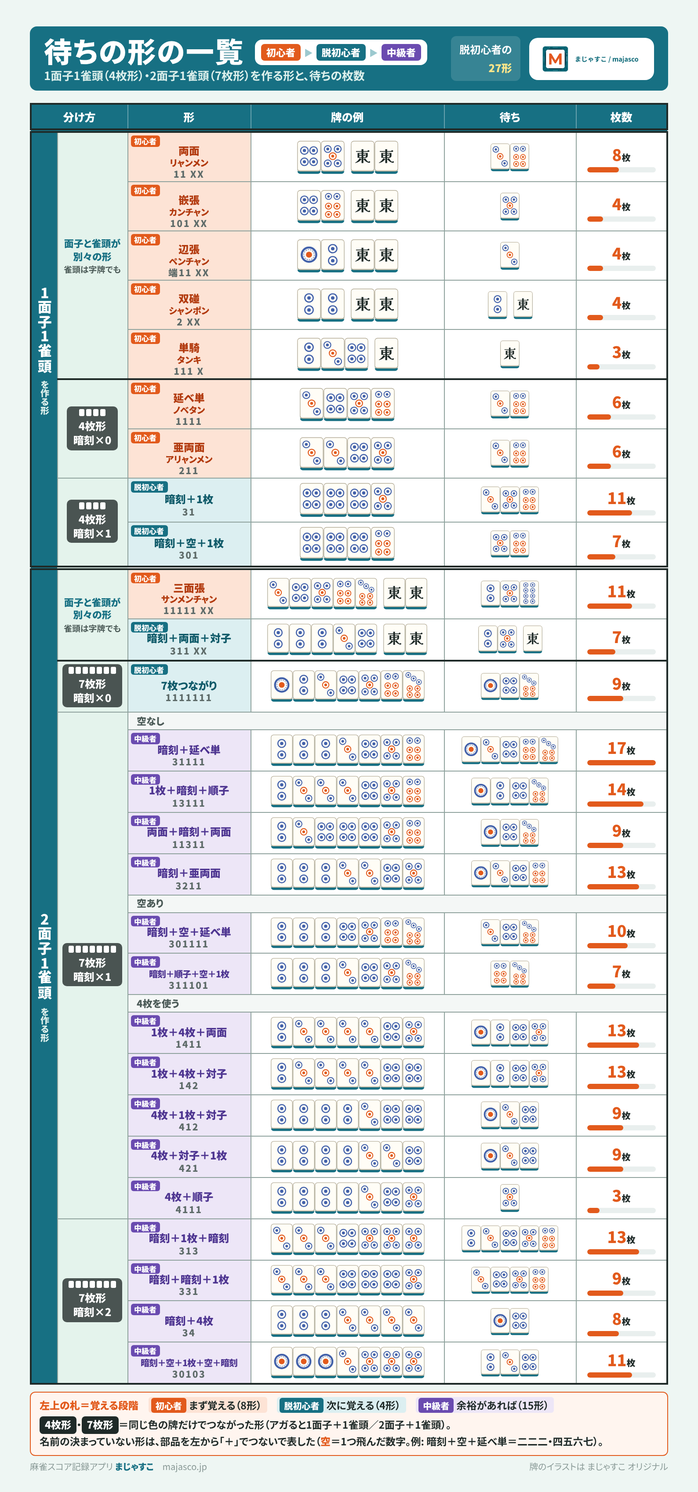
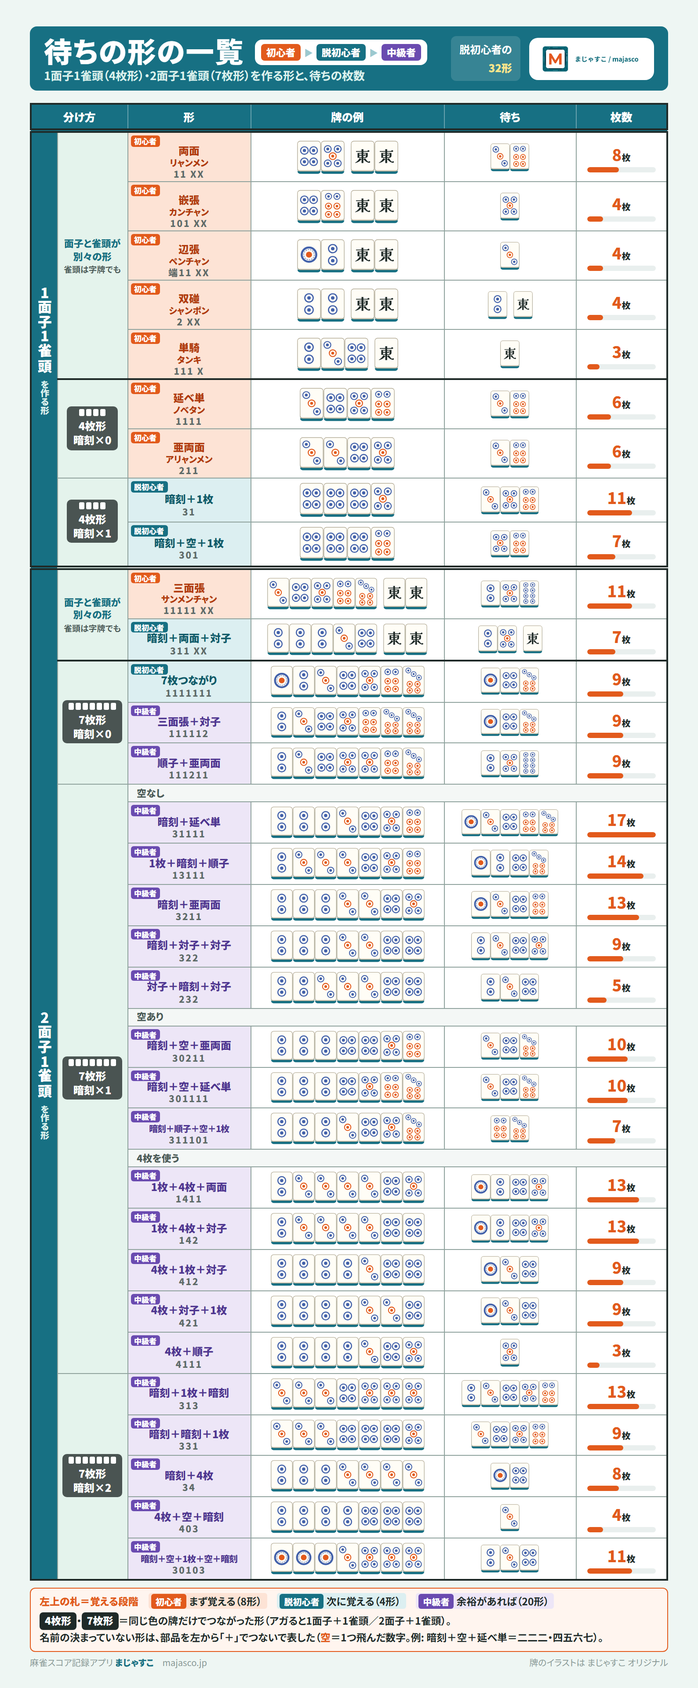
待ちの形一覧を32形に（4・0・3／3・2・2／2・3・2／3・0・2・1・1／1・1・1・1・1・2／1・1・1・2・1・1を追加、両面＋暗刻＋両面を削除）
ユーザーの指示。表の見出しの形の数・段階ごとの数は SECS から数えるようにした（手で書いていた8形・15形が古くなるため）。
記事の本文・alt・画像の高さ・一覧ページの副題・sitemap も合わせた。

Changed region(s): [[0.0309, 0.0, 0.9565, 1.0]]

diff --git a/blog-machi-katachi.html b/blog-machi-katachi.html
@@ -14,8 +14,8 @@ j=d.createElement(s),dl=l!='dataLayer'?'&l='+l:'';j.async=true;j.src=
 <meta name="google-adsense-account" content="ca-pub-9998035509478799">
 <script async src="https://pagead2.googlesyndication.com/pagead/js/adsbygoogle.js?client=ca-pub-9998035509478799"
      crossorigin="anonymous"></script>
-<title>【保存版】麻雀の待ちの形一覧｜両面8枚から最大17枚待ちまで27形を図解 | まじゃすこ</title>
-<meta name="description" content="麻雀の待ちの形を、1面子1雀頭（4枚形）と2面子1雀頭（7枚形）に分けて27形を1枚の表に。初心者が覚える8形から、暗刻を使う中級者の形まで、待ちの牌と枚数を図で解説します。">
+<title>【保存版】麻雀の待ちの形一覧｜両面8枚から最大17枚待ちまで32形を図解 | まじゃすこ</title>
+<meta name="description" content="麻雀の待ちの形を、1面子1雀頭（4枚形）と2面子1雀頭（7枚形）に分けて32形を1枚の表に。初心者が覚える8形から、暗刻を使う中級者の形まで、待ちの牌と枚数を図で解説します。">
 <link rel="canonical" href="https://majasco.jp/blog-machi-katachi.html">
 <link rel="alternate" type="application/rss+xml" title="まじゃすこ お知らせRSS" href="https://majasco.jp/news/feed.xml">
 <link rel="icon" type="image/png" sizes="512x512" href="/assets/favicon.png">
@@ -25,8 +25,8 @@ j=d.createElement(s),dl=l!='dataLayer'?'&l='+l:'';j.async=true;j.src=
 <meta property="og:type" content="article">
 <meta property="og:url" content="https://majasco.jp/blog-machi-katachi.html">
 <meta property="og:site_name" content="まじゃすこ / majasco">
-<meta property="og:title" content="【保存版】麻雀の待ちの形一覧｜両面8枚から最大17枚待ちまで27形を図解">
-<meta property="og:description" content="両面8枚・三面張11枚・暗刻＋延べ単17枚。待ちの形27形を、段階ごとに1枚の表と図で。">
+<meta property="og:title" content="【保存版】麻雀の待ちの形一覧｜両面8枚から最大17枚待ちまで32形を図解">
+<meta property="og:description" content="両面8枚・三面張11枚・暗刻＋延べ単17枚。待ちの形32形を、段階ごとに1枚の表と図で。">
 <meta property="og:locale" content="ja_JP">
 <meta property="og:image" content="https://majasco.jp/assets/og/blog-machi-katachi.png">
 <meta property="og:image:width" content="1200">
@@ -34,8 +34,8 @@ j=d.createElement(s),dl=l!='dataLayer'?'&l='+l:'';j.async=true;j.src=
 <meta name="twitter:card" content="summary_large_image">
 <meta name="twitter:site" content="@majasco_jp">
 <meta name="twitter:image" content="https://majasco.jp/assets/og/blog-machi-katachi.png">
-<meta name="twitter:title" content="【保存版】麻雀の待ちの形一覧｜両面8枚から最大17枚待ちまで27形を図解">
-<meta name="twitter:description" content="両面8枚・三面張11枚・暗刻＋延べ単17枚。待ちの形27形を、段階ごとに1枚の表と図で。">
+<meta name="twitter:title" content="【保存版】麻雀の待ちの形一覧｜両面8枚から最大17枚待ちまで32形を図解">
+<meta name="twitter:description" content="両面8枚・三面張11枚・暗刻＋延べ単17枚。待ちの形32形を、段階ごとに1枚の表と図で。">
 <style>
 * { box-sizing: border-box; margin: 0; padding: 0; }
 body { font-family: -apple-system, BlinkMacSystemFont, 'Segoe UI', 'Hiragino Kaku Gothic ProN', 'Noto Sans JP', sans-serif; background: #fff; color: #222; line-height: 1.95; -webkit-font-smoothing: antialiased; }
@@ -120,7 +120,7 @@ p .yomi, li .yomi { font-size: .78em; }
 .rk-tbl td.n, .rk-tbl th.n { text-align: right; }
 </style>
 <link rel="stylesheet" href="/assets/blog.css">
-<script type="application/ld+json">{"@context": "https://schema.org", "@type": "Article", "headline": "【保存版】麻雀の待ちの形一覧｜両面8枚から最大17枚待ちまで27形を図解", "description": "麻雀の待ちの形を、1面子1雀頭（4枚形）と2面子1雀頭（7枚形）に分けて27形を1枚の表に。初心者が覚える8形から、暗刻を使う中級者の形まで、待ちの牌と枚数を図で解説します。", "image": ["https://majasco.jp/assets/hai/machi-katachi-ichiran.png", "https://majasco.jp/assets/hai/machi-katachi-4mai.png", "https://majasco.jp/assets/hai/machi-katachi-7mai-1.png", "https://majasco.jp/assets/hai/machi-katachi-7mai-2.png", "https://majasco.jp/assets/og/blog-machi-katachi.png"], "datePublished": "2026-11-16", "dateModified": "2026-11-16", "author": {"@type": "Person", "name": "むにぃ", "url": "https://majasco.jp/about.html"}, "publisher": {"@type": "Organization", "name": "まじゃすこ / majasco", "logo": {"@type": "ImageObject", "url": "https://majasco.jp/assets/favicon.png"}}, "mainEntityOfPage": "https://majasco.jp/blog-machi-katachi.html"}</script>
+<script type="application/ld+json">{"@context": "https://schema.org", "@type": "Article", "headline": "【保存版】麻雀の待ちの形一覧｜両面8枚から最大17枚待ちまで32形を図解", "description": "麻雀の待ちの形を、1面子1雀頭（4枚形）と2面子1雀頭（7枚形）に分けて32形を1枚の表に。初心者が覚える8形から、暗刻を使う中級者の形まで、待ちの牌と枚数を図で解説します。", "image": ["https://majasco.jp/assets/hai/machi-katachi-ichiran.png", "https://majasco.jp/assets/hai/machi-katachi-4mai.png", "https://majasco.jp/assets/hai/machi-katachi-7mai-1.png", "https://majasco.jp/assets/hai/machi-katachi-7mai-2.png", "https://majasco.jp/assets/og/blog-machi-katachi.png"], "datePublished": "2026-11-16", "dateModified": "2026-11-17", "author": {"@type": "Person", "name": "むにぃ", "url": "https://majasco.jp/about.html"}, "publisher": {"@type": "Organization", "name": "まじゃすこ / majasco", "logo": {"@type": "ImageObject", "url": "https://majasco.jp/assets/favicon.png"}}, "mainEntityOfPage": "https://majasco.jp/blog-machi-katachi.html"}</script>
   <link rel="stylesheet" href="/assets/site-foot.css">
 </head>
 <body>
@@ -139,7 +139,7 @@ height="0" width="0" style="display:none;visibility:hidden"></iframe></noscript>
 
 <div class="post-layout">
 <article class="blog-post">
-  <h1>【保存版】麻雀の待ちの形一覧｜両面8枚から最大17枚待ちまで27形を図解</h1>
+  <h1>【保存版】麻雀の待ちの形一覧｜両面8枚から最大17枚待ちまで32形を図解</h1>
   <p class="post-meta">2026.11.16</p>
 
   <figure class="eyecatch"><img src="/assets/thumbs/blog-machi-katachi.webp" alt="待ちの形の一覧のイメージ" width="320" height="240" fetchpriority="high"></figure>
@@ -147,16 +147,16 @@ height="0" width="0" style="display:none;visibility:hidden"></iframe></noscript>
   <div class="post-ans"><p class="pa-h">この記事の結論</p><ul><li>待ちの形は<strong>1<ruby>面子<rt>メンツ</rt></ruby>1雀頭（4枚形）と2面子1雀頭（7枚形）</strong>に分けると覚えやすい</li><li>まず覚えるのは<strong><ruby>両面<rt>リャンメン</rt></ruby>・<ruby>嵌張<rt>カンチャン</rt></ruby>・<ruby>辺張<rt>ペンチャン</rt></ruby>・<ruby>双碰<rt>シャンポン</rt></ruby>・<ruby>単騎<rt>タンキ</rt></ruby>・延べ単・亜両面・<ruby>三面張<rt>サンメンチャン</rt></ruby>の8形</strong></li><li>いちばん広いのは<strong>暗刻＋延べ単（二二二三四五六）の17枚待ち</strong></li></ul></div>
   <div class="post-toc"><b>この記事でわかること</b><a href="#mikata">表の見方</a><a href="#kihon">まず覚える8形</a><a href="#yon">4枚形</a><a href="#nana">7枚形</a><a href="#anko1">暗刻1つの7枚形</a><a href="#oboe">形で覚えるコツ</a><a href="#shukei">集計係の目線</a><a href="#faq">よくある質問</a></div>
 
-  <figure class="sheet-fig" style="margin:0 0 24px"><a href="/assets/hai/machi-katachi-ichiran.png" target="_blank" rel="noopener"><img src="/assets/hai/machi-katachi-ichiran-web.webp" sizes="(max-width: 720px) 100vw, 680px" width="1588" height="3392" alt="麻雀の待ちの形の一覧表。1面子1雀頭を作る形（4枚形）9形と、2面子1雀頭を作る形（7枚形）18形を、覚える段階（初心者・脱初心者・中級者）ごとに、牌の例・待ち・待ちの枚数で並べた表" loading="lazy"></a></figure>
+  <figure class="sheet-fig" style="margin:0 0 24px"><a href="/assets/hai/machi-katachi-ichiran.png" target="_blank" rel="noopener"><img src="/assets/hai/machi-katachi-ichiran-web.webp" sizes="(max-width: 720px) 100vw, 680px" width="1588" height="3838" alt="麻雀の待ちの形の一覧表。1面子1雀頭を作る形（4枚形）9形と、2面子1雀頭を作る形（7枚形）23形を、覚える段階（初心者・脱初心者・中級者）ごとに、牌の例・待ち・待ちの枚数で並べた表" loading="lazy"></a></figure>
 
   <p>テンパイしたとき、何を待っているかがすぐに分かる人と、指を折って数える人がいます。差は才能ではなく、<strong>形を知っているかどうか</strong>です。両面なら両側の2種、嵌張なら間の1種。形を見た瞬間に待ちが分かるので、迷う時間がなくなります。</p>
-  <p>この記事では、テンパイのときの待ちの形を<strong>27形</strong>、上の1枚の表にまとめました。アガると「1面子＋1<ruby>雀頭<rt>ジャントウ</rt></ruby>」がそろう形と「2面子＋1雀頭」がそろう形に分け、覚える順番がわかるように段階の札を付けています。待ちの牌と枚数は、手で数えずに計算で出しました。</p>
+  <p>この記事では、テンパイのときの待ちの形を<strong>32形</strong>、上の1枚の表にまとめました。アガると「1面子＋1<ruby>雀頭<rt>ジャントウ</rt></ruby>」がそろう形と「2面子＋1雀頭」がそろう形に分け、覚える順番がわかるように段階の札を付けています。待ちの牌と枚数は、手で数えずに計算で出しました。</p>
   <div class="ad-slot" data-ad="article_top"></div>
 
   <h2 id="mikata">表の見方</h2>
   <ul>
     <li><strong>分け方</strong>：左の列は、アガったときに何がそろうか。1面子1雀頭を作る形と、2面子1雀頭を作る形の2つに分けました。その中を「面子と雀頭が別々の形」と、同じ色の牌がつながった「4枚形」「7枚形」に分け、つながった形は暗刻の数（暗刻×0・×1・×2）で並べています</li>
-    <li><strong>段階の札</strong>：名前の左上の札は、覚える順番です。初心者（オレンジ）がまず覚える8形、脱初心者（青緑）が次に覚える4形、中級者（紫）が余裕があれば覚える15形。札の色は難しさで、大事さではありません</li>
+    <li><strong>段階の札</strong>：名前の左上の札は、覚える順番です。初心者（オレンジ）がまず覚える8形、脱初心者（青緑）が次に覚える4形、中級者（紫）が余裕があれば覚える20形。札の色は難しさで、大事さではありません</li>
     <li><strong>数字の並び</strong>：名前の下の「31111」のような数字は、形の一番小さい数字から順に、その数字が何枚あるかを並べたものです。抜けている数字は0、<ruby>字牌<rt>ジハイ</rt></ruby>はX、辺張は「端11」と書きました</li>
     <li><strong>枚数</strong>：待ちの牌が、形の中で使っている牌を除いて何枚残っているか。場に見えている牌は数えていません。棒の長さで広さを比べられます</li>
   </ul>
@@ -174,33 +174,36 @@ height="0" width="0" style="display:none;visibility:hidden"></iframe></noscript>
   <tr><td>三面張</td><td>三四五六七筒＋東東</td><td>二・五・八筒</td><td class="c-n">11枚</td></tr>
   </tbody></table>
   <p>最初の5つ（両面・嵌張・辺張・双碰・単騎）は、どんな待ちも最後はこの5つのどれかでアガる、という基本の待ち方です。解説の図でも、この5つを色で分けています。</p>
-  <p>次の3つは、基本の待ち方が重なった形です。<strong>延べ単</strong>は4枚つながりで、両端のどちらかが雀頭になります。<strong>亜両面</strong>は<ruby>対子<rt>トイツ</rt></ruby>と両面がくっついた形で、待ちの種類は両面と同じ三・六筒ですが、三筒を手の中で1枚使っているぶん、両面より2枚少ない6枚です。<strong>三面張</strong>は両面が2つ重なった形で、待ちは3種11枚。基本の8形ではいちばん広い形です。</p>
+  <p>次の3つは、基本の待ち方が重なった形です。<strong>延べ単</strong>は4枚つながりで、両端のどちらかが雀頭になります。<strong>亜両面</strong>は<ruby>対子<rt>トイツ</rt></ruby>と両面がくっついた形で、待ちの種類は両面と同じ三・六筒ですが、三筒を手の中で1枚使っている分、両面より2枚少ない6枚です。<strong>三面張</strong>は両面が2つ重なった形で、待ちは3種11枚。基本の8形ではいちばん広い形です。</p>
   <p>嵌張や辺張は4枚、両面は8枚。<strong>となりの牌を引いて両面に変えるだけで、待ちは2倍</strong>になります。リーチの前に形を整える、という考え方の理由がここにあります。</p>
 
   <h2 id="yon">1面子1雀頭を作る形（4枚形）</h2>
   <figure class="sheet-fig" style="margin:0 0 24px"><a href="/assets/hai/machi-katachi-4mai.png" target="_blank" rel="noopener"><img src="/assets/hai/machi-katachi-4mai-web.webp" sizes="(max-width: 720px) 100vw, 680px" width="1588" height="2912" alt="1面子1雀頭を作る形（4枚形）の解説。両面・嵌張・辺張・双碰・単騎・延べ単・亜両面・暗刻＋1枚・暗刻＋空＋1枚の9形を、手の形と、横から見た枚数の図、待ち方ごとの待ちの牌で並べた図" loading="lazy"></a></figure>
-  <p>解説の図は、左が手の形、右が「横から見た図」です。横の数字が牌の数字、縦の高さが枚数で、手にある牌は斜め線の箱、待ちの牌は待ち方の色（両面＝赤・嵌張＝青・辺張＝紫・双碰＝緑・単騎＝オレンジ）の箱で、残りの枚数ぶん積んでいます。</p>
+  <p>解説の図は、左が手の形、右が「横から見た図」です。横の数字が牌の数字、縦の高さが枚数で、手にある牌は斜め線の箱、待ちの牌は待ち方の色（両面＝赤・嵌張＝青・辺張＝紫・双碰＝緑・単騎＝オレンジ）の箱で、残りの枚数分積んでいます。</p>
   <p>4枚形で覚えておきたいのは、暗刻が入った2つの形です。<strong>暗刻＋1枚</strong>（四四四五筒）は、四筒の暗刻を面子と見れば五筒の単騎、四四を雀頭と見れば四五の両面で三・六筒。合わせて三・五・六筒の3種11枚待ちで、三面張と同じ広さです。<strong>暗刻＋空＋1枚</strong>（四四四六筒）は、同じ考え方で嵌張の五筒と単騎の六筒。2種7枚です。</p>
   <p>どちらも「暗刻を面子と見るか、雀頭＋1枚と見るか」で待ちが2つに分かれます。これが、暗刻の入った形を読むときのいちばん大事な見方です。</p>
 
   <h2 id="nana">2面子1雀頭を作る形（7枚形）</h2>
-  <figure class="sheet-fig" style="margin:0 0 24px"><a href="/assets/hai/machi-katachi-7mai-1.png" target="_blank" rel="noopener"><img src="/assets/hai/machi-katachi-7mai-1-web.webp" sizes="(max-width: 720px) 100vw, 680px" width="1588" height="2404" alt="2面子1雀頭を作る形（7枚形）の解説その1。三面張・暗刻＋両面＋対子・7枚つながり・暗刻＋1枚＋暗刻・暗刻＋暗刻＋1枚・暗刻＋4枚・暗刻＋空＋1枚＋空＋暗刻の7形を、手の形と横から見た枚数の図で並べた図" loading="lazy"></a></figure>
+  <figure class="sheet-fig" style="margin:0 0 24px"><a href="/assets/hai/machi-katachi-7mai-1.png" target="_blank" rel="noopener"><img src="/assets/hai/machi-katachi-7mai-1-web.webp" sizes="(max-width: 720px) 100vw, 680px" width="1588" height="3164" alt="2面子1雀頭を作る形（7枚形）の解説その1。三面張・暗刻＋両面＋対子・7枚つながり・三面張＋対子・順子＋亜両面・暗刻＋1枚＋暗刻・暗刻＋暗刻＋1枚・暗刻＋4枚・4枚＋空＋暗刻・暗刻＋空＋1枚＋空＋暗刻の10形を、手の形と横から見た枚数の図で並べた図" loading="lazy"></a></figure>
   <p>7枚形は、4枚形にもう1つ面子が足された形です。待ちの牌が2つの待ち方を持つことが多いので、図では<strong>箱と数字を左右2色</strong>に分けました。たとえば暗刻＋1枚＋暗刻（三三三四五五五筒）の三筒は、両面でも双碰でもアガれます。</p>
   <ul>
     <li><strong>暗刻＋両面＋対子</strong>（二二二三四筒＋東東）：二筒は両面と双碰、五筒は両面、東は双碰。3種7枚</li>
     <li><strong>7枚つながり</strong>（一〜七筒）：延べ単が2つ重なった形で、一・四・七筒の3種9枚。どれも単騎</li>
+    <li><strong>三面張＋対子</strong>（二三四五六七七筒）：二〜六筒の三面張と七七筒の雀頭。一・四・七筒の3種9枚で、七筒は単騎でもある</li>
+    <li><strong>順子＋亜両面</strong>（二三四五五六七筒）：二三四筒の順子に、五五六七筒の亜両面がつながる形。二・五・八筒の3種9枚</li>
     <li><strong>暗刻＋1枚＋暗刻</strong>（三三三四五五五筒）：二〜六筒の5種13枚。どこを雀頭にするかで待ちが変わる形</li>
     <li><strong>暗刻＋暗刻＋1枚</strong>（三三三四四四五筒）：三・四・五・六筒の4種。三筒と四筒は手で3枚ずつ使っているので、残りは9枚</li>
     <li><strong>暗刻＋4枚</strong>（二二二三三三三筒）：4枚使った三筒は待ちにならず、一・四筒の2種8枚</li>
+    <li><strong>4枚＋空＋暗刻</strong>（二二二二四四四筒）：4枚使った二筒は単騎にならず、待ちは三筒の嵌張だけ。1種4枚</li>
     <li><strong>暗刻＋空＋1枚＋空＋暗刻</strong>（一一一三五五五筒）：嵌張2つと単騎が重なり、二・三・四筒の3種11枚</li>
   </ul>
 
   <h2 id="anko1">暗刻を1つ使う7枚形</h2>
-  <figure class="sheet-fig" style="margin:0 0 24px"><a href="/assets/hai/machi-katachi-7mai-2.png" target="_blank" rel="noopener"><img src="/assets/hai/machi-katachi-7mai-2-web.webp" sizes="(max-width: 720px) 100vw, 680px" width="1588" height="3354" alt="2面子1雀頭を作る形（7枚形）の解説その2。暗刻を1つ使う7枚形11形を、空なし・空あり・4枚を使うに分けて、手の形と横から見た枚数の図で並べた図" loading="lazy"></a></figure>
+  <figure class="sheet-fig" style="margin:0 0 24px"><a href="/assets/hai/machi-katachi-7mai-2.png" target="_blank" rel="noopener"><img src="/assets/hai/machi-katachi-7mai-2-web.webp" sizes="(max-width: 720px) 100vw, 680px" width="1588" height="3862" alt="2面子1雀頭を作る形（7枚形）の解説その2。暗刻を1つ使う7枚形13形を、空なし・空あり・4枚を使うに分けて、手の形と横から見た枚数の図で並べた図" loading="lazy"></a></figure>
   <p>中級者の形がいちばん多いのがここです。暗刻の位置と、空（1つ飛んだ数字）があるかどうかで、3つに分けました。</p>
   <ul>
-    <li><strong>空なし</strong>：暗刻＋延べ単（二二二三四五六筒）は<strong>一・三・四・六・七筒の5種17枚</strong>で、表の中でいちばん広い待ち。1枚＋暗刻＋順子（二三三三四五六筒）は4種14枚、暗刻＋亜両面（二二二三三四五筒）は4種13枚、両面＋暗刻＋両面（二三四四四五六筒）は3種9枚です</li>
-    <li><strong>空あり</strong>：暗刻＋空＋延べ単（二二二・四五六七筒）は3種10枚、暗刻＋<ruby>順子<rt>シュンツ</rt></ruby>＋空＋1枚（二二二三四五・七筒）は2種7枚</li>
+    <li><strong>空なし</strong>：暗刻＋延べ単（二二二三四五六筒）は<strong>一・三・四・六・七筒の5種17枚</strong>で、表の中でいちばん広い待ち。1枚＋暗刻＋順子（二三三三四五六筒）は4種14枚、暗刻＋亜両面（二二二三三四五筒）は4種13枚。暗刻＋対子＋対子（二二二三三四四筒）は二〜五筒の4種9枚、対子＋暗刻＋対子（二二三三三四四筒）は二・三・四筒の3種5枚で、手の中で使っている牌が多い分残りが少なくなります</li>
+    <li><strong>空あり</strong>：暗刻＋空＋亜両面（二二二・四四五六筒）と暗刻＋空＋延べ単（二二二・四五六七筒）は3種10枚、暗刻＋<ruby>順子<rt>シュンツ</rt></ruby>＋空＋1枚（二二二三四五・七筒）は2種7枚</li>
     <li><strong>4枚を使う</strong>：同じ牌を4枚使った形。1枚＋4枚＋両面（二三三三三四五筒）と1枚＋4枚＋対子（二三三三三四四筒）は4種13枚、4枚＋1枚＋対子（二二二二三四四筒）と4枚＋対子＋1枚（二二二二三三四筒）は3種9枚、4枚＋順子（二二二二三四五筒）は五筒だけの3枚。<strong>4枚使った牌は待ちにならない</strong>ので、形のわりに待ちが減ります</li>
   </ul>
   <p>同じ7枚でも、17枚待ちから3枚待ちまで、5倍以上の差があります。暗刻がどこにあるかで、ここまで変わるのが7枚形のおもしろさです。</p>

diff --git a/assets/blog-site.js b/assets/blog-site.js
@@ -45,8 +45,8 @@ const READ_ICON = {
 };
 const BLOG_POSTS = [
   { url: '/blog-machi-katachi.html', cat: 'rules', date: '2026.11.16', tag: '図解',
-    title: '【保存版】麻雀の待ちの形一覧｜両面8枚から最大17枚待ちまで27形を図解',
-    desc: '1面子1雀頭（4枚形）と2面子1雀頭（7枚形）に分けた27形を1枚の表に。初心者が覚える8形から中級者の形まで、待ちの牌と枚数を図で。' },
+    title: '【保存版】麻雀の待ちの形一覧｜両面8枚から最大17枚待ちまで32形を図解',
+    desc: '1面子1雀頭（4枚形）と2面子1雀頭（7枚形）に分けた32形を1枚の表に。初心者が覚える8形から中級者の形まで、待ちの牌と枚数を図で。' },
   { url: '/blog-mahjong-dougu.html', cat: 'beginner', date: '2026.11.14', tag: '図鑑',
     title: '【保存版】【図鑑】麻雀の道具図鑑｜牌・点棒・焼き鳥マークまで名前と読み方を1枚に',
     desc: '牌34種と赤牌・花牌・白ポッチ・金牌、白とカラーの点棒と黒棒、サイコロ・起家マーク・焼き鳥マーク・チップ・点箱・牌寄せを名前と読み方つきで。' },

diff --git a/blog.html b/blog.html
@@ -67,7 +67,7 @@ height="0" width="0" style="display:none;visibility:hidden"></iframe></noscript>
     <a class="post-card has-thumb cat-rules" href="/blog-machi-katachi.html">
       <span class="pc-thumb"><img src="/assets/thumbs/blog-machi-katachi.webp" alt="" width="320" height="240" loading="lazy" decoding="async"></span>
       <div class="pc-body"><span class="pc-meta"><span class="pc-cat">ルールの深掘り</span><span class="date">2026.11.16</span></span>
-      <h2>【保存版】麻雀の待ちの形一覧<span class="pc-sub">両面8枚から最大17枚待ちまで27形を図解</span></h2></div>
+      <h2>【保存版】麻雀の待ちの形一覧<span class="pc-sub">両面8枚から最大17枚待ちまで32形を図解</span></h2></div>
     </a>
     <a class="post-card has-thumb cat-beginner" href="/blog-mahjong-dougu.html">
       <span class="pc-thumb"><img src="/assets/thumbs/blog-mahjong-dougu.webp" alt="" width="320" height="240" loading="lazy" decoding="async"></span>

diff --git a/mahjong/index.html b/mahjong/index.html
@@ -67,7 +67,7 @@ height="0" width="0" style="display:none;visibility:hidden"></iframe></noscript>
     <a class="post-card has-thumb cat-rules" href="/blog-machi-katachi.html">
       <span class="pc-thumb"><img src="/assets/thumbs/blog-machi-katachi.webp" alt="" width="320" height="240" loading="lazy" decoding="async"></span>
       <div class="pc-body"><span class="pc-meta"><span class="pc-cat">ルールの深掘り</span><span class="date">2026.11.16</span></span>
-      <h2>【保存版】麻雀の待ちの形一覧<span class="pc-sub">両面8枚から最大17枚待ちまで27形を図解</span></h2></div>
+      <h2>【保存版】麻雀の待ちの形一覧<span class="pc-sub">両面8枚から最大17枚待ちまで32形を図解</span></h2></div>
     </a>
     <a class="post-card has-thumb cat-beginner" href="/blog-mahjong-dougu.html">
       <span class="pc-thumb"><img src="/assets/thumbs/blog-mahjong-dougu.webp" alt="" width="320" height="240" loading="lazy" decoding="async"></span>

diff --git a/rules/index.html b/rules/index.html
@@ -67,7 +67,7 @@ height="0" width="0" style="display:none;visibility:hidden"></iframe></noscript>
     <a class="post-card has-thumb cat-rules" href="/blog-machi-katachi.html">
       <span class="pc-thumb"><img src="/assets/thumbs/blog-machi-katachi.webp" alt="" width="320" height="240" loading="lazy" decoding="async"></span>
       <div class="pc-body"><span class="pc-meta"><span class="pc-cat">ルールの深掘り</span><span class="date">2026.11.16</span></span>
-      <h2>【保存版】麻雀の待ちの形一覧<span class="pc-sub">両面8枚から最大17枚待ちまで27形を図解</span></h2></div>
+      <h2>【保存版】麻雀の待ちの形一覧<span class="pc-sub">両面8枚から最大17枚待ちまで32形を図解</span></h2></div>
     </a>
     <a class="post-card has-thumb cat-rules" href="/blog-yaku-ranking.html">
       <span class="pc-thumb"><img src="/assets/thumbs/blog-yaku-ranking.webp" alt="" width="320" height="240" loading="lazy" decoding="async"></span>

diff --git a/tools/machi_sheet/machi4.py b/tools/machi_sheet/machi4.py
@@ -13,6 +13,7 @@ for t, sub, m, rows in M.SECS:
         ALL.append(dict(name=name, yomi=yomi, hand=hand, txt=txt, m=m, w=[c for c, _ in w], n=n, kihon=name in M.KIHON,
                         honor=any(c[0] == "z" for c in hand), ank=M.n_ank(hand)))
 MAXN = max(r["n"] for r in ALL)
+NLV = {k: sum(1 for r in ALL if M.level(r["name"]) in ((1, 2) if k == 1 else (k,))) for k in (1, 3, 4)}      # 段階ごとの形の数（手で書かない）
 def bar(n): return f'<div class="bar2"><i style="width:{n / MAXN * 100:.0f}%"></i></div>'
 def pat(hand):
     """形を「数字ごとの枚数の並び」で（例: 三面張＝11111 XX・暗刻＋延べ単＝31111）。抜けている数字は 0、字牌は X（2026-11-16 ユーザーの案）"""
@@ -111,7 +112,7 @@ def sheet_A(out):
         hd = '<th colspan="2">分け方</th><th>形</th><th>牌の例</th><th>待ち</th><th>枚数</th>'
     html = f"""<table><colgroup>{cg}</colgroup>
 <thead><tr>{hd}</tr></thead><tbody>{body}</tbody></table>
-<div class="tip"><b>左上の札＝覚える段階</b>　<span class="fb"><i class="st2 l1">初心者</i>まず覚える（8形）</span>　<span class="fb3"><i class="st2 l3">脱初心者</i>次に覚える（4形）</span>　<span class="fb4"><i class="st2 l4">中級者</i>余裕があれば（15形）</span><br>
+<div class="tip"><b>左上の札＝覚える段階</b>　<span class="fb"><i class="st2 l1">初心者</i>まず覚える（{NLV[1]}形）</span>　<span class="fb3"><i class="st2 l3">脱初心者</i>次に覚える（{NLV[3]}形）</span>　<span class="fb4"><i class="st2 l4">中級者</i>余裕があれば（{NLV[4]}形）</span><br>
 <span class="k47">4枚形</span>・<span class="k47">7枚形</span>＝同じ色の牌だけでつながった形（アガると1面子＋1雀頭／2面子＋1雀頭）。<br>
 名前の決まっていない形は、部品を左から「＋」でつないで表した（<b>空</b>＝1つ飛んだ数字。例: 暗刻＋空＋延べ単＝二二二・四五六七）。<br>
 </div>"""
@@ -131,7 +132,7 @@ def sheet_B1(out):
 <div class="tip"><b>形をよくする</b>　嵌張・辺張は、となりの牌を引いて両面に変えると待ちが2倍（4枚→8枚）。リーチの前に形を整えるとアガりやすい。<br>
 <b>亜両面</b>は両面と同じ待ちの種類でも、手の中に1枚使っているので、両面より2枚少ない。</div>
 <p class="note">例は筒子と東。枚数は、形の中の牌を除いた残り（場に見えている牌は数えない）。応用の形は、もう1枚の「応用の形」で</p>"""
-    render(page("待ちの形　基本の8形", "まずはこれだけ。待ちの枚数が多い順", "まず覚える<br><span>8形</span>", html, CSS.replace("tbody tr { height: 44px; }", "tbody tr { height: 54px; }")), out)
+    render(page(f"待ちの形　基本の{NLV[1]}形", "まずはこれだけ。待ちの枚数が多い順", f"まず覚える<br><span>{NLV[1]}形</span>", html, CSS.replace("tbody tr { height: 44px; }", "tbody tr { height: 54px; }")), out)
 def sheet_B2(out):
     global ROWH
     os_ = sorted([r for r in ALL if not r["kihon"]], key=lambda r: (-r["n"], r["m"]))
@@ -143,6 +144,6 @@ def sheet_B2(out):
 <thead><tr><th></th><th>形</th><th>牌の例</th><th>待ち</th><th>枚数</th><th>形</th><th>説明</th></tr></thead><tbody>{body}</tbody></table>
 <div class="tip"><b>読み方</b>　名前は、部品を左から「＋」でつないだもの（<b>空</b>＝1つ飛んだ数字）。<em class="tg t1">4枚形</em>はアガると1面子＋1雀頭、<em class="tg t2">7枚形</em>はアガると2面子＋1雀頭になる形。</div>
 <p class="note">例は筒子と東。枚数は、形の中の牌を除いた残り（場に見えている牌は数えない）。待ちと枚数は計算で出した</p>"""
-    render(page("待ちの形　応用の15形", "暗刻が入ると待ちが広がる。待ちの枚数が多い順", "脱初心者の<br><span>15形</span>", html, CSS + "td.tx { font-size: 11px; letter-spacing: -.03em; }"), out)
+    render(page(f"待ちの形　応用の{NLV[4]}形", "暗刻が入ると待ちが広がる。待ちの枚数が多い順", f"脱初心者の<br><span>{NLV[4]}形</span>", html, CSS + "td.tx { font-size: 11px; letter-spacing: -.03em; }"), out)
 k = sys.argv[2]
 {"A": sheet_A, "B1": sheet_B1, "B2": sheet_B2}[k](sys.argv[1])

diff --git a/tools/machi_sheet/machi3.py b/tools/machi_sheet/machi3.py
@@ -78,11 +78,15 @@ SECS = [("1面子1雀頭を作る形", "4枚形", 1, [
   ("三面張", "サンメンチャン", P("34567") + EAST, "両面が重なり、3種を待つ"),
   ("暗刻＋延べ単", "", P("2223456"), "延べ単・三面張・暗刻が重なる"),
   ("1枚＋暗刻＋順子", "", P("2333456"), "暗刻をはさみ、両面と単騎が重なる"),
-  ("両面＋暗刻＋両面", "", P("2344456"), "暗刻を両側の両面がはさむ"),
   ("暗刻＋1枚＋暗刻", "", P("3334555"), "どこが雀頭かで待ちが変わる"),
   ("暗刻＋暗刻＋1枚", "", P("3334445"), "2つ続く暗刻のとなりに1枚"),
   ("暗刻＋4枚", "", P("2223333"), "4枚の牌は待ちにならず、両側を待つ"),      # 3・4（2026-11-16 ユーザーの指示で足した。同じ牌3枚以上が2つなので 暗刻×2 の組）
+  ("4枚＋空＋暗刻", "", P("2222444"), "4枚使いで単騎が消え、嵌張だけ"),      # 4・0・3（2026-11-17 ユーザーの指示で足した）
   ("暗刻＋亜両面", "", P("2223345"), "暗刻と亜両面が重なる"),
+  # 3・2・2／2・3・2／3・0・2・1・1（2026-11-17 ユーザーの指示で足した。両面＋暗刻＋両面＝1・1・3・1・1 は外した）
+  ("暗刻＋対子＋対子", "", P("2223344"), "対子2つと暗刻で、4種を待つ"),
+  ("対子＋暗刻＋対子", "", P("2233344"), "暗刻を対子2つがはさむ"),
+  ("暗刻＋空＋亜両面", "", P("2224456"), "暗刻と亜両面の間が1つ飛ぶ"),
   ("1枚＋4枚＋両面", "", P("2333345"), "4枚使った牌は待ちにならない"),
   # 4枚使いの 1・4・2／4・1・2／4・2・1（2026-11-16 ユーザーの指摘で足した）
   ("1枚＋4枚＋対子", "", P("2333344"), "4枚の両側に1枚と対子"),
@@ -92,6 +96,9 @@ SECS = [("1面子1雀頭を作る形", "4枚形", 1, [
   ("暗刻＋空＋1枚＋空＋暗刻", "", P("1113555"), "嵌張2つと単騎が重なる"),
   ("暗刻＋空＋延べ単", "", P("2224567"), "暗刻と4枚の間が1つ飛ぶ"),
   ("7枚つながり", "", P("1234567"), "延べ単が2つ重なる"),
+  # 1・1・1・1・1・2／1・1・1・2・1・1（2026-11-17 ユーザーの指示で7枚つながりの下に足した）
+  ("三面張＋対子", "", P("2345677"), "三面張の端に対子がつき、単騎も重なる"),
+  ("順子＋亜両面", "", P("2345567"), "亜両面の前に順子がつながる"),
   ("暗刻＋両面＋対子", "", P("22234") + EAST, "両面と双碰が重なる"),
   ("暗刻＋順子＋空＋1枚", "", P("2223457"), "最後の1枚だけが離れる")])]
 KIHON = {"両面", "嵌張", "辺張", "双碰", "単騎", "延べ単", "亜両面", "三面張"}      # まず覚える基本の形（色を変える。2026-11-16 ユーザーの指定）

diff --git a/docs/blog-spec.md b/docs/blog-spec.md
@@ -158,7 +158,7 @@
 - OK例: 「符・翻の点数計算は自分で。半荘のスコア集計は、まじゃすこで。」
 
 ## 公開済み記事一覧（16記事＋お知らせ6本＋更新履歴）
-- **blog-machi-katachi.html（2026-11-16）**: 待ちの形一覧（27形。4枚使いの 1・4・2／4・1・2／4・2・1 と 暗刻＋4枚（3・4）は2026-11-16 ユーザーの指摘で足した）。1枚の表と解説3枚は `python3.13 tools/machi_sheet.py`（tools/machi_sheet/ の machi4.py＝一覧・detail.py＝解説。待ちの牌と枚数は machi3.py が計算で出す＝手で書かない。見た目の決まりは docs/image-tools.md「Xに出す1枚の表」）→ assets/hai/machi-katachi-ichiran / -4mai / -7mai-1 / -7mai-2。本文の待ちと枚数は表と同じ値にそろえる
+- **blog-machi-katachi.html（2026-11-16）**: 待ちの形一覧（32形。4枚使いの 1・4・2／4・1・2／4・2・1 と 暗刻＋4枚（3・4）は2026-11-16、4・0・3／3・2・2／2・3・2／3・0・2・1・1／1・1・1・1・1・2／1・1・1・2・1・1 は2026-11-17 ユーザーの指示で足し、1・1・3・1・1（両面＋暗刻＋両面）は外した。形の数・段階ごとの数は machi3.py の SECS から数える＝表の見出しも手で書かない）。1枚の表と解説3枚は `python3.13 tools/machi_sheet.py`（tools/machi_sheet/ の machi4.py＝一覧・detail.py＝解説。待ちの牌と枚数は machi3.py が計算で出す＝手で書かない。見た目の決まりは docs/image-tools.md「Xに出す1枚の表」）→ assets/hai/machi-katachi-ichiran / -4mai / -7mai-1 / -7mai-2。本文の待ちと枚数は表と同じ値にそろえる
 - **blog-naki-tejun.html（2026-11-11）**: ポン・チーの手順。**手順は番号つきの5つの言葉＝①発声→②開示→③回収→④副露→⑤打牌で書く**（2026-11-12 ユーザーの依頼。言葉の意味は docs/video-3d.md「手順の見せ方」。動画も同じ言葉）。上から見た卓の図5枚（`tools/make_naki_article.py` の `board(step)` が SVG を作る。記事を直すときはこのスクリプトを直して実行）。団体の決まりは Mリーグ（m-league.jp/about/）・協会の競技規定・最高位戦の競技規定PDF・RMUのルールで確認。連盟（競技ルールのページに本文が出ない）と麻将連合は未確認＝確かめられたら表に足す
 - **お知らせ（検索に載せる・2026-10-13）**: news/nakama-page.html（仲間ページ）／news/mypage-stats.html（マイページと成績）／news/kiroku-kakutei.html（記録の確定）。実画面は `/assets/screens/*.jpg`（見本のデータ・スタブで撮影。キャプションに「名前と数字は見本のデータです」）
 - **更新履歴のページは置かない**（2026-10-22 ユーザーの判断で非公開。/changelog.html は /news/ へ301。アプリの変更はお知らせ（/news/）で伝える）
